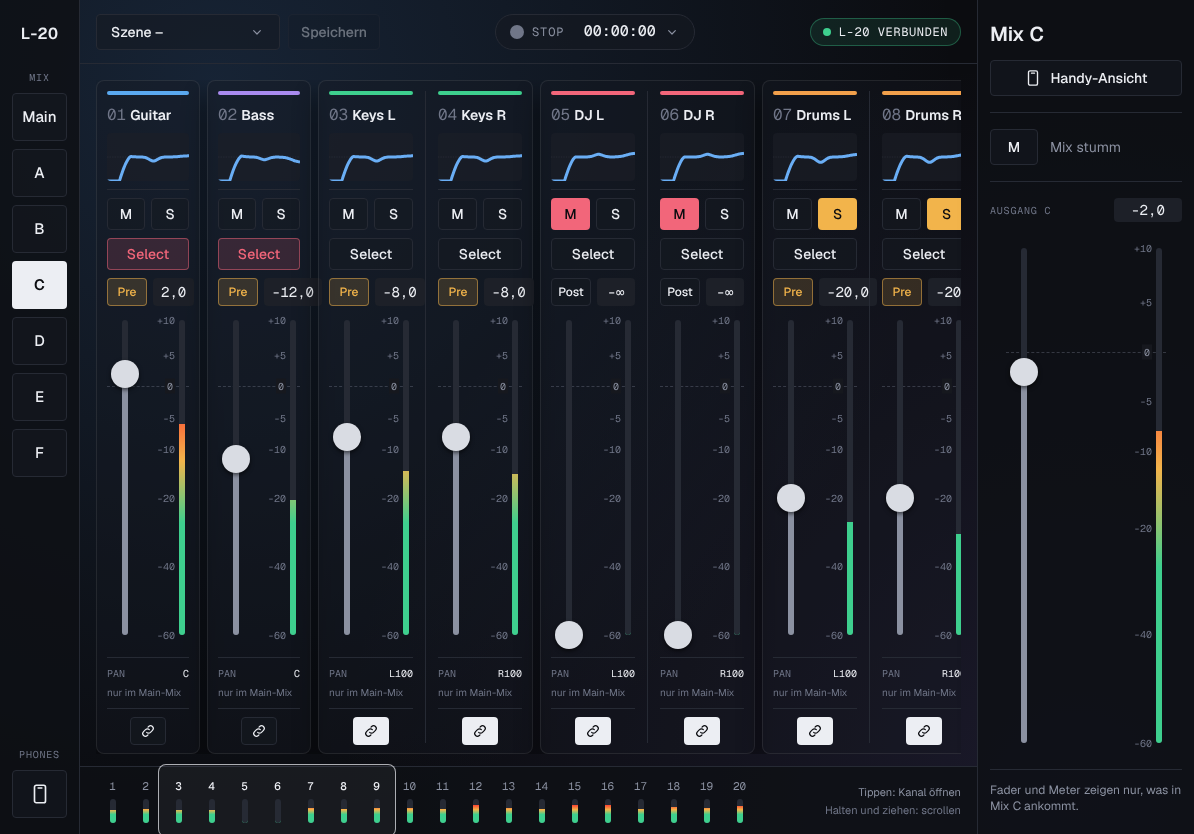
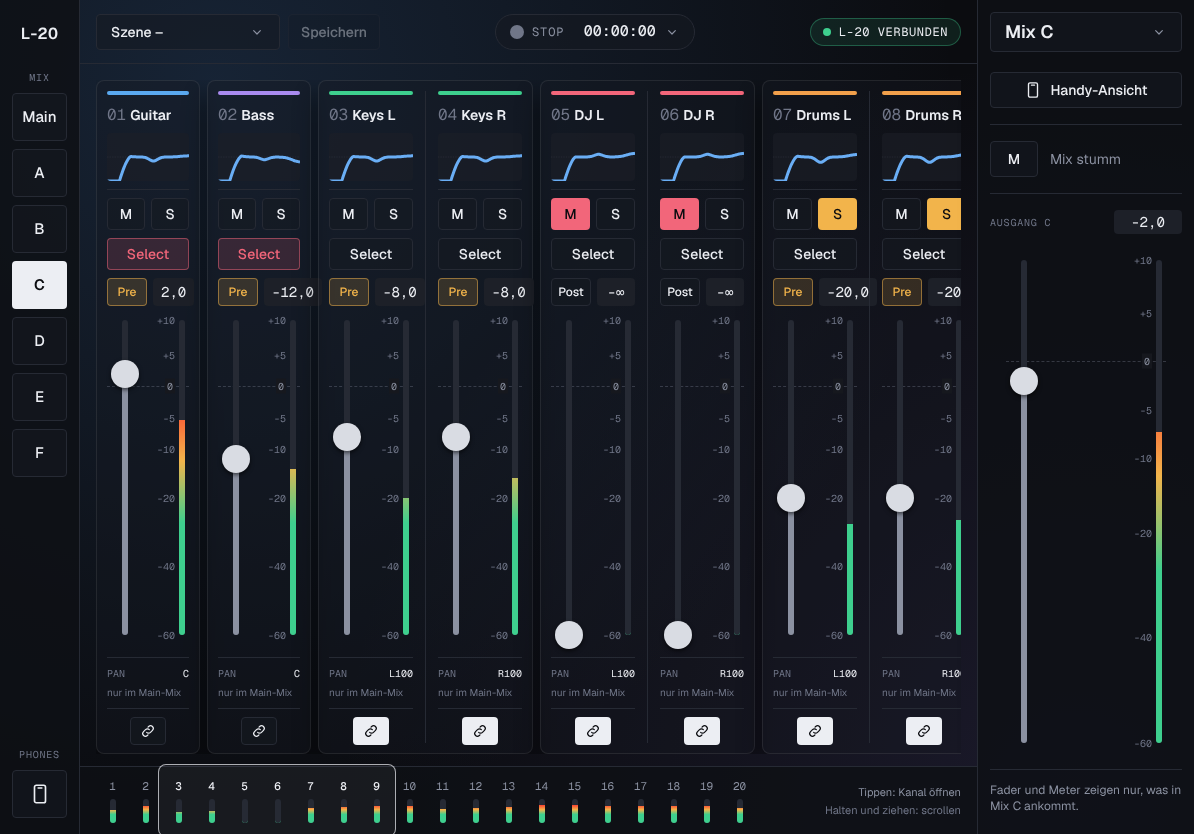
Rechte Leiste: Dropdown schaltet zwischen Main, Master und Mix A-F
Ersetzt die Titel Master / Mix X in der rechten Leiste. Die Leiste zeigt
FX + Master in Main und Master, den Mix-Ausgang in Mix A-F.

Claude-Session: https://claude.ai/code/session_01KbLEJ1Gsh3xGpwrhXZZo4P

diff --git a/src/ui/screens/Shell.tsx b/src/ui/screens/Shell.tsx
@@ -4,19 +4,19 @@ import { formatTime } from '@/lib/scale'
 import { cn } from '@/lib/utils'
 import { useMixerStore } from '@/state/mixerStore'
 import { Btn, Icon, Label, Meter, StatusPill } from '../components/controls'
-import type { View } from '../mixView'
+import type { Screen, View } from '../mixView'
 
 export function Shell({
-  mix,
-  onMix,
+  screen,
+  onScreen,
   overview,
   aside,
   children,
 }: {
-  mix: View
-  onMix: (mix: View) => void
+  screen: Screen
+  onScreen: (screen: Screen) => void
   overview: ReactNode
-  /** fixed right rail (master + FX or the monitor mix output), full height like the navigation */
+  /** fixed right rail (master + FX or the monitor mix output) under the screen dropdown, full height like the navigation */
   aside: ReactNode
   children: ReactNode
 }) {
@@ -29,9 +29,9 @@ export function Shell({
           {(['main', ...MONITOR_MIXES] as View[]).map((m) => (
             <Btn
               key={m}
-              kind={m === mix ? 'on' : 'plain'}
-              className={cn('h-12 text-[15px]', m === mix && 'font-semibold')}
-              onClick={() => onMix(m)}
+              kind={m === screen ? 'on' : 'plain'}
+              className={cn('h-12 text-[15px]', m === screen && 'font-semibold')}
+              onClick={() => onScreen(m)}
             >
               {m === 'main' ? 'Main' : m}
             </Btn>
@@ -39,7 +39,7 @@ export function Shell({
         </div>
         <Label className="mt-auto mb-2">Phones</Label>
         <a
-          href={`?phone=${mix === 'main' ? 'A' : mix}`}
+          href={`?phone=${MONITOR_MIXES.includes(screen as never) ? screen : 'A'}`}
           target="_blank"
           rel="noreferrer"
           aria-label="Handy-Ansicht öffnen"
@@ -53,12 +53,30 @@ export function Shell({
         <main className="min-h-0 flex-1 p-4 pb-3">{children}</main>
         {overview}
       </div>
-      <aside className="border-line bg-sidebar/85 divide-line flex shrink-0 divide-x border-l py-3">
-        {aside}
+      <aside className="border-line bg-sidebar/85 flex shrink-0 flex-col border-l py-3">
+        <label className="border-line relative mx-3 mb-3 flex h-10 items-center rounded border bg-[rgb(22_25_32/0.55)] px-3.5 text-lg font-semibold">
+          {SCREEN_LABEL(screen)}
+          <Icon name="caret" className="text-fg2 ml-auto size-4" />
+          <select
+            aria-label="Ansicht wählen"
+            className="absolute inset-0 opacity-0"
+            value={screen}
+            onChange={(e) => onScreen(e.target.value as Screen)}
+          >
+            {(['main', 'master', ...MONITOR_MIXES] as Screen[]).map((s) => (
+              <option key={s} value={s}>
+                {SCREEN_LABEL(s)}
+              </option>
+            ))}
+          </select>
+        </label>
+        <div className="divide-line flex min-h-0 flex-1 divide-x">{aside}</div>
       </aside>
     </div>
   )
 }
+
+const SCREEN_LABEL = (s: Screen) => (s === 'main' ? 'Main' : s === 'master' ? 'Master' : `Mix ${s}`)
 
 const REC_LABEL: Record<RecorderState, string> = {
   stopped: 'STOP',

diff --git a/src/ui/screens/Console.tsx b/src/ui/screens/Console.tsx
@@ -257,10 +257,7 @@ export function MasterStrip({ onOpenEq }: { onOpenEq: () => void }) {
   const dispatch = useMixerStore((s) => s.dispatch)
   return (
     <section aria-label="Master" className="flex w-32 shrink-0 flex-col px-3 py-2">
-      <button type="button" className="text-left text-lg font-semibold" onClick={onOpenEq}>
-        Master
-      </button>
-      <button type="button" aria-label="Master-EQ öffnen" className="mt-2" onClick={onOpenEq}>
+      <button type="button" aria-label="Master-EQ öffnen" onClick={onOpenEq}>
         <MiniGeq geq={main.geq} />
       </button>
       <div className="mt-auto grid grid-cols-2 gap-1.5">
@@ -305,12 +302,11 @@ export function MonitorPanel({ mix }: { mix: MonitorMixId }) {
   const dispatch = useMixerStore((s) => s.dispatch)
   return (
     <section aria-label={`Mix ${mix}`} className="flex w-[216px] shrink-0 flex-col px-3 py-2">
-      <div className="text-xl font-semibold">Mix {mix}</div>
       <a
         href={`?phone=${mix}`}
         target="_blank"
         rel="noreferrer"
-        className="border-line mt-3 flex h-9 items-center justify-center gap-2 rounded border bg-[rgb(22_25_32/0.55)] text-sm font-medium"
+        className="border-line flex h-9 items-center justify-center gap-2 rounded border bg-[rgb(22_25_32/0.55)] text-sm font-medium"
       >
         <Icon name="phone" /> Handy-Ansicht
       </a>

diff --git a/src/ui/App.tsx b/src/ui/App.tsx
@@ -29,13 +29,14 @@ function Ipad() {
 
   return (
     <Shell
-      mix={mix}
-      onMix={(m) => {
-        setMix(m)
+      screen={detail === 'master' ? 'master' : mix}
+      onScreen={(s) => {
+        if (s === 'master') return setDetail('master')
+        setMix(s)
         setDetail(null)
       }}
       aside={
-        mix === 'main' || detail ? (
+        mix === 'main' || detail === 'master' ? (
           <>
             <FxReturns />
             <MasterStrip onOpenEq={() => setDetail('master')} />

diff --git a/src/ui/mixView.ts b/src/ui/mixView.ts
@@ -78,3 +78,6 @@ export const isFixedStereo = (ch: number) => (FIXED_STEREO as readonly number[])
 
 /** What the iPad shows: the main mix or one monitor mix. */
 export type View = 'main' | MonitorMixId
+
+/** What the right-rail dropdown switches: a mix view or the master page. */
+export type Screen = View | 'master'
